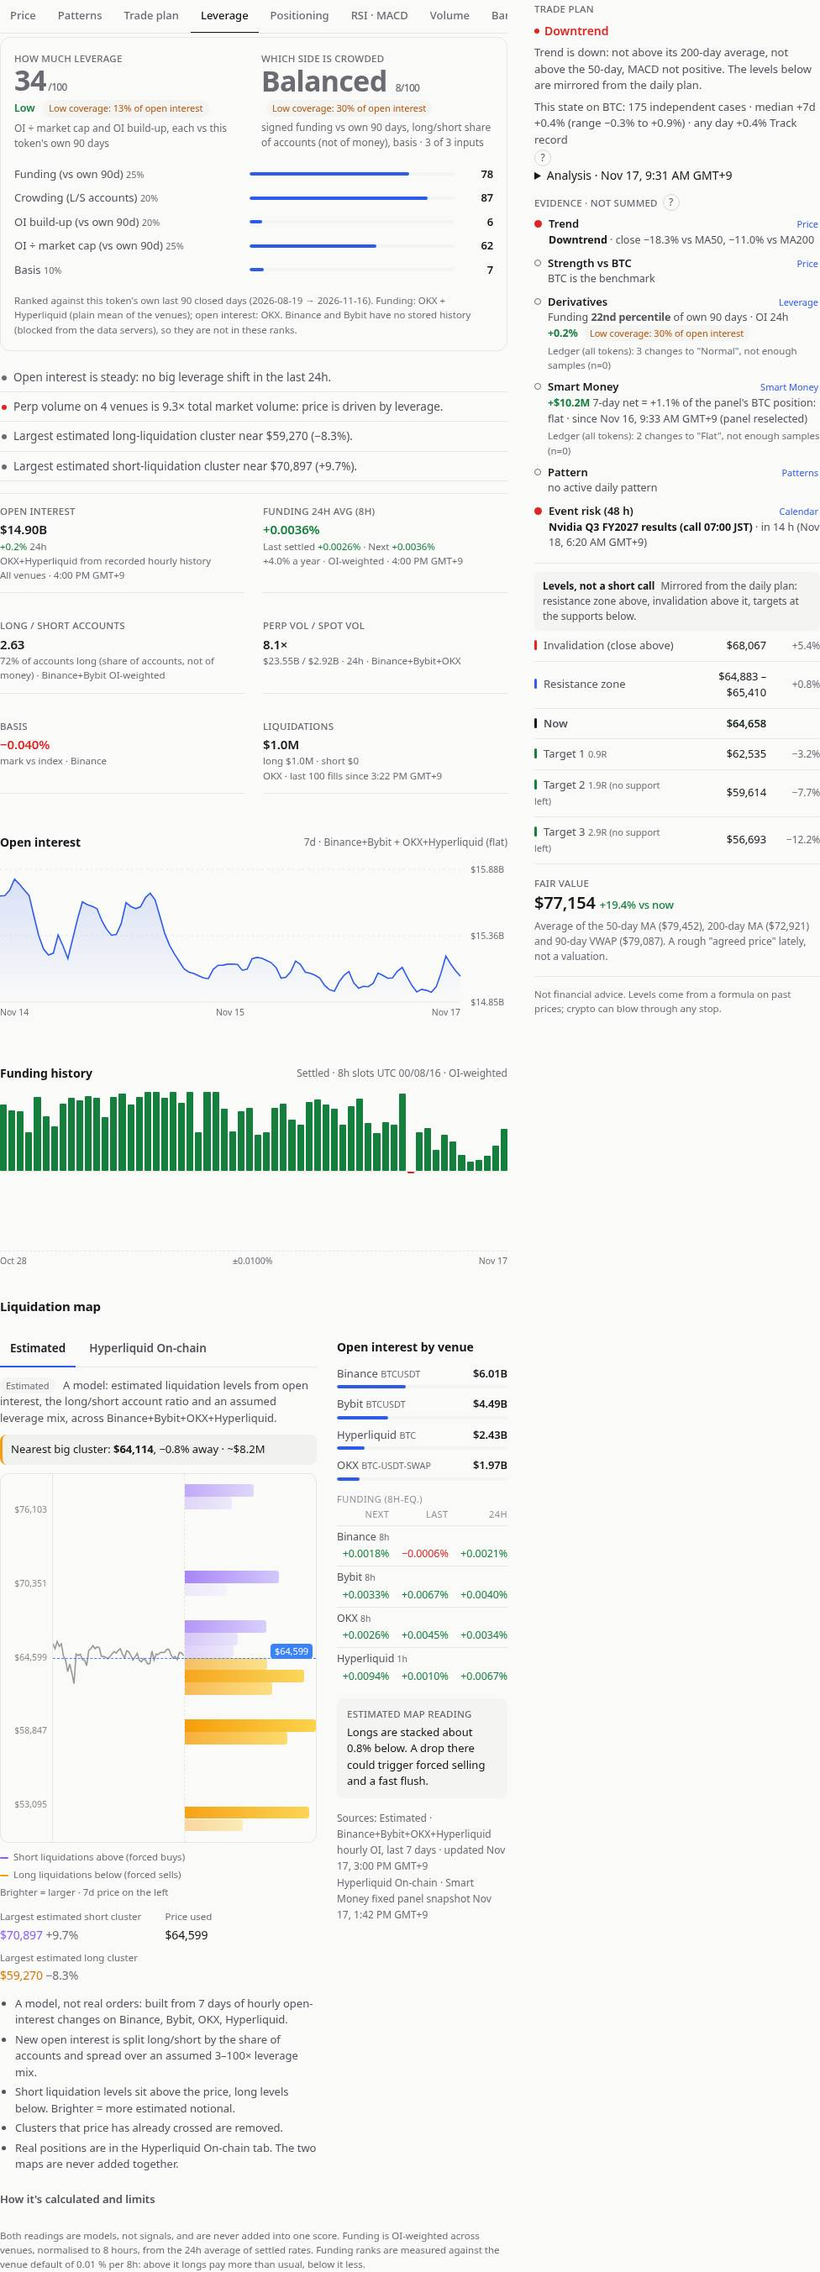
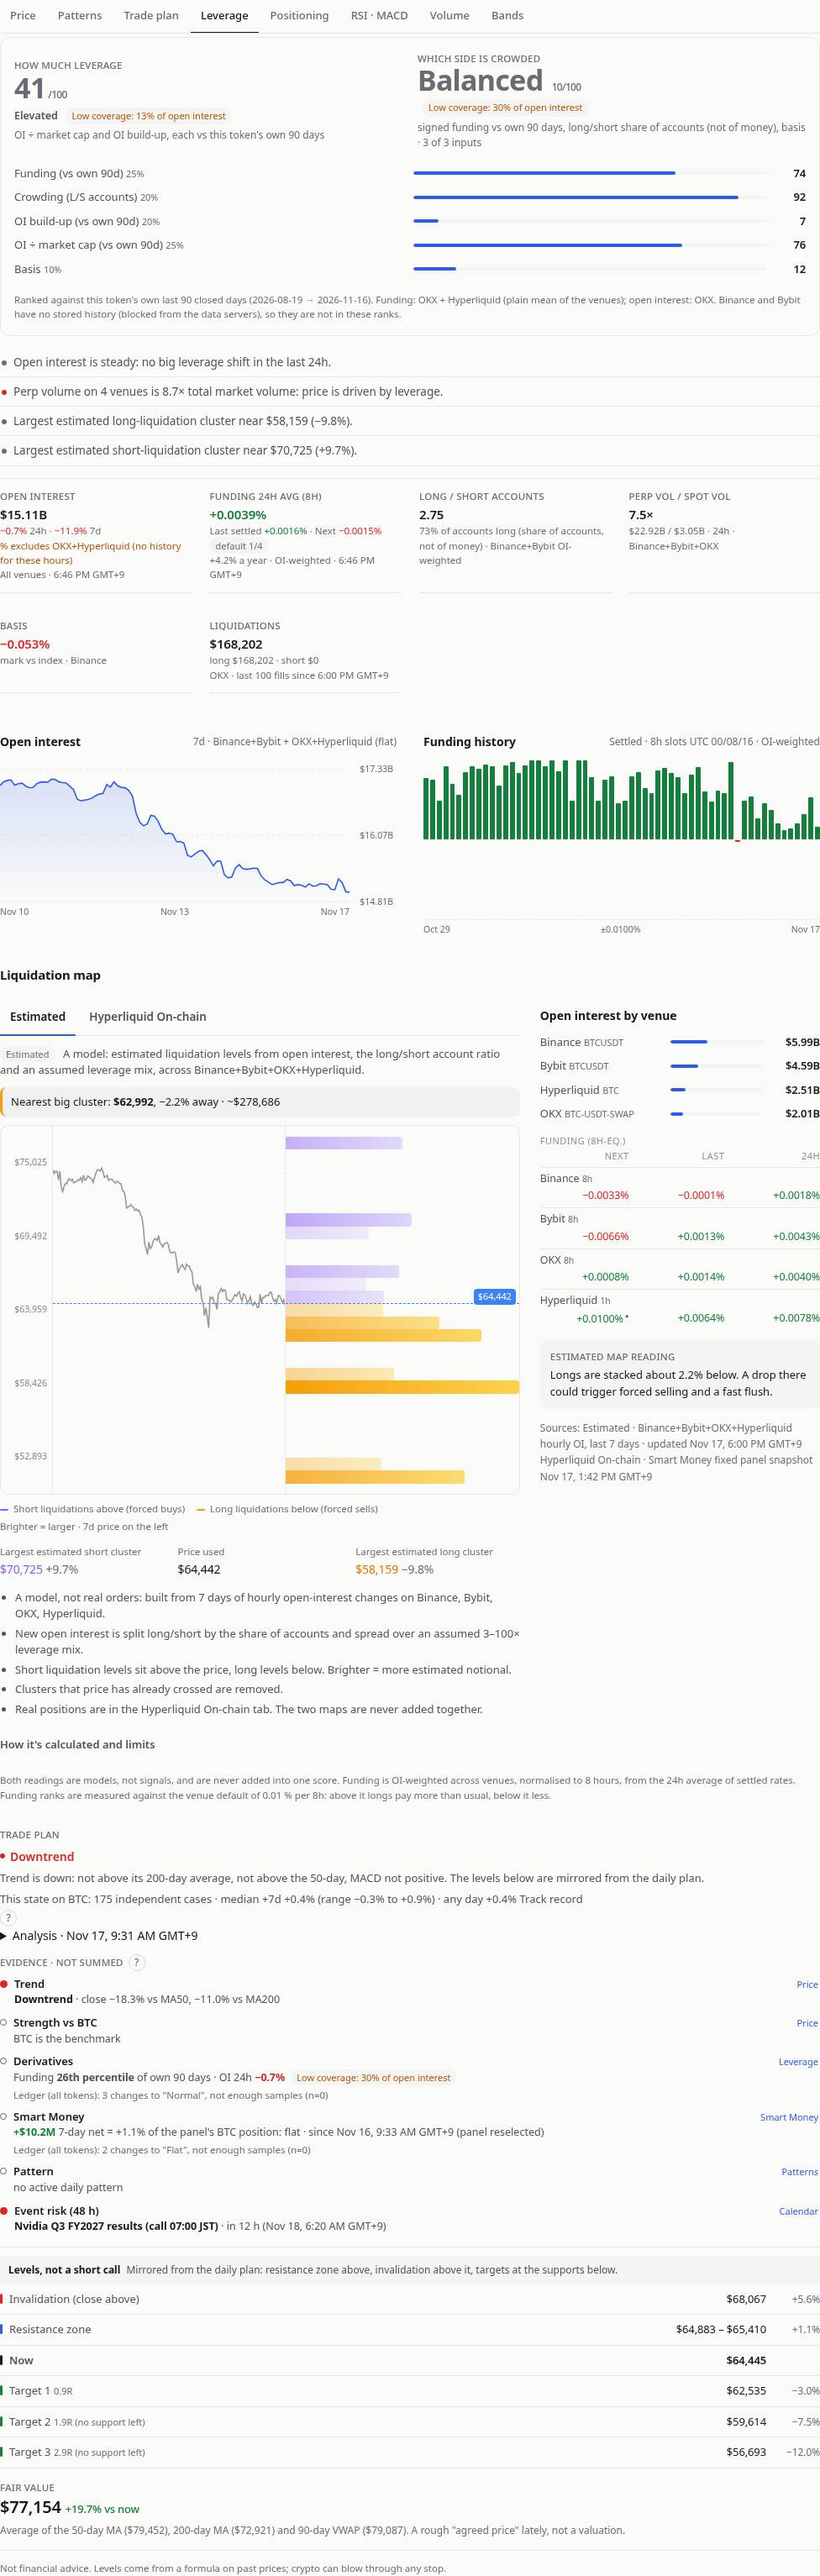
docs/qa/pr14: retake all 7 widths EN+TH with the rail under the map below 1440

diff --git a/docs/qa/pr14/README.md b/docs/qa/pr14/README.md
@@ -1,6 +1,6 @@
 # Visual QA screenshots (#14: token page Leverage tab (liquidation map + rail))
 
-Taken 2026-11-17 16:26 GMT+9 in headless Chrome against this branch with live data. Widths 1920/1440/1280/1024 (desktop) and 768/390/360 (touch), EN and TH. File name = <page>-<width>-<lang>.jpg.
+Taken 2026-11-17 18:48 GMT+9 in headless Chrome against this branch with live data. Widths 1920/1440/1280/1024 (desktop; the 340px rail sits under the map below 1440 and beside it from 1440) and 768/390/360 (touch), EN and TH. File name = <page>-<width>-<lang>.jpg.
 
 Checked on every page and width: document scrollWidth <= clientWidth, no element past the viewport, no clipped text, controls >= 44px tall below 768px.
 
